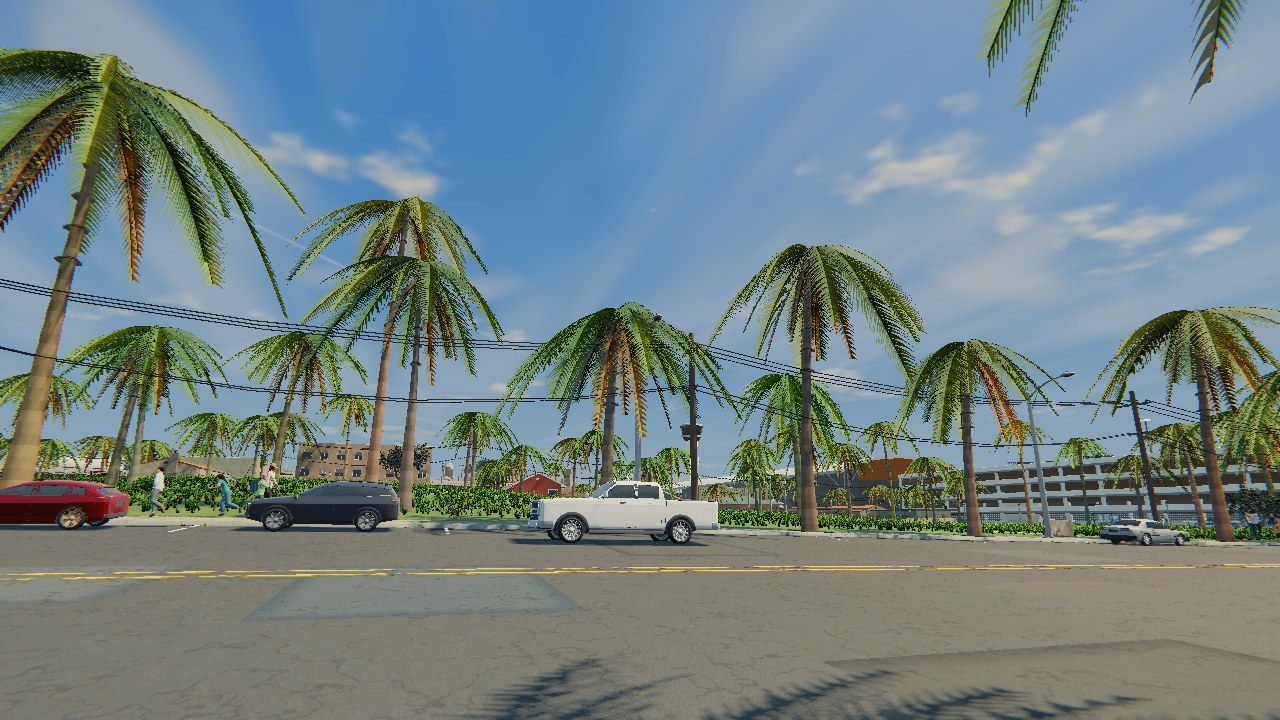
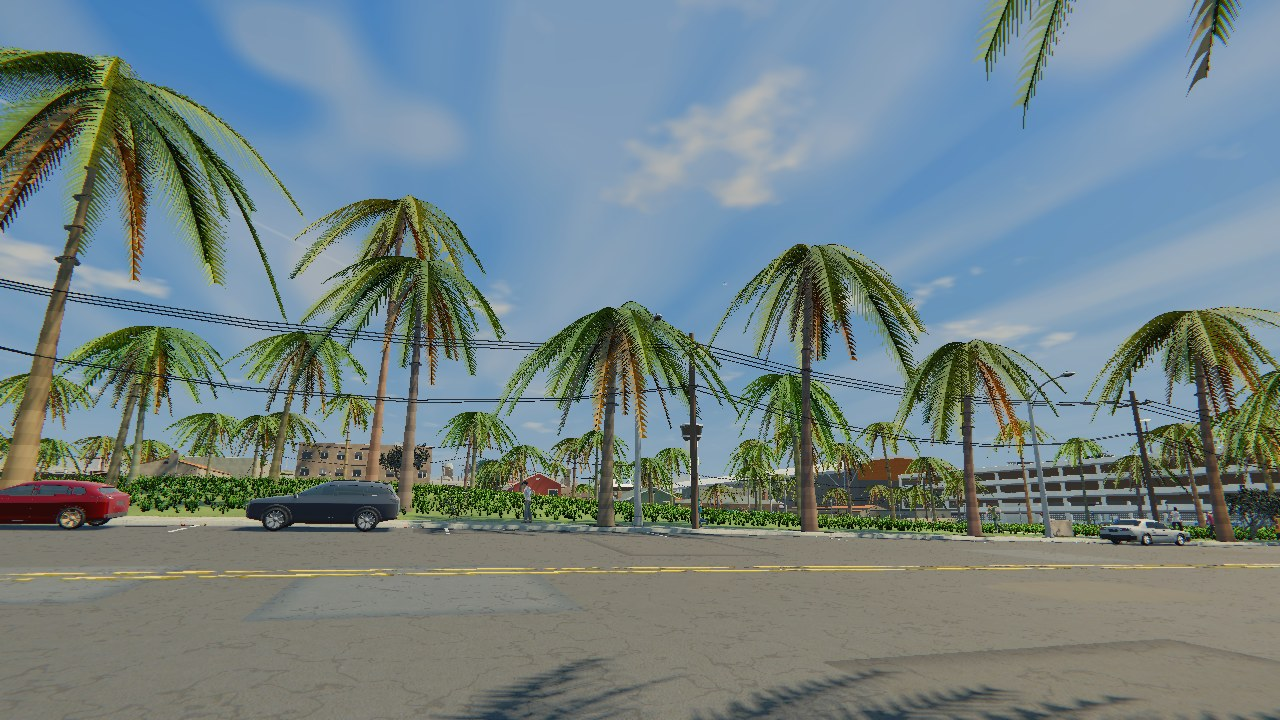
Street lamps: re-shoot 15/16 after the pool tuning

diff --git a/README.md b/README.md
@@ -18,7 +18,7 @@ All opengl3 (Compatibility renderer, what the web build draws), not the Mac's Fo
 | 12_after_midtown_lantern_2100.jpg | The same at 21:00 (sodium) |
 | 13_after_beachtown_street_posttops_noon.jpg | Beach town from the far kerb: post-tops along the side street |
 | 14_after_beachtown_street_posttops_2100.jpg | The same at 21:00 (an LED patch) |
-| 15_after_beachtown_down_the_street_cobras_noon.jpg | Beach town, down a bigger street: cobra-heads on the far kerb |
-| 16_after_beachtown_down_the_street_cobras_2100.jpg | The same at 21:00 |
+| 15_after_beachtown_down_the_street_cobras_noon.jpg | Beach town, down a bigger street: cobra-heads on the far kerb (same load as 17) |
+| 16_after_beachtown_down_the_street_cobras_2100.jpg | The same at 21:00, re-shot after the pool tuning (same load as 18; bottom third p95 196 -> 142, before the kit 101) |
 | 17_before_beachtown_down_the_street_noon.jpg | Before (STREET_LAMPS=0) for 15: the scanned post on every kerb |
 | 18_before_beachtown_down_the_street_2100.jpg | Before for 16 at 21:00: the pools on the pavement; after, the cobras light the road under their heads |
